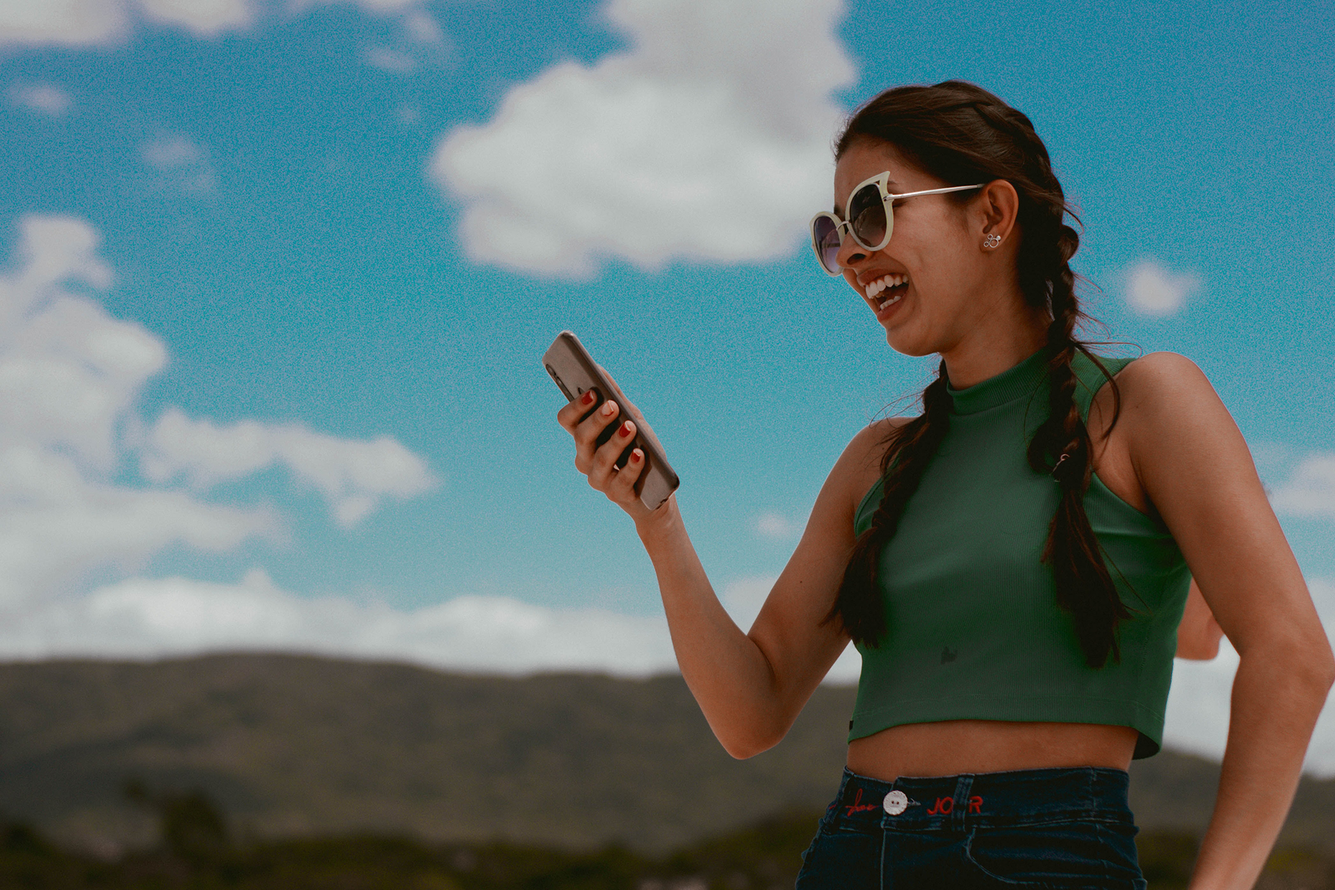
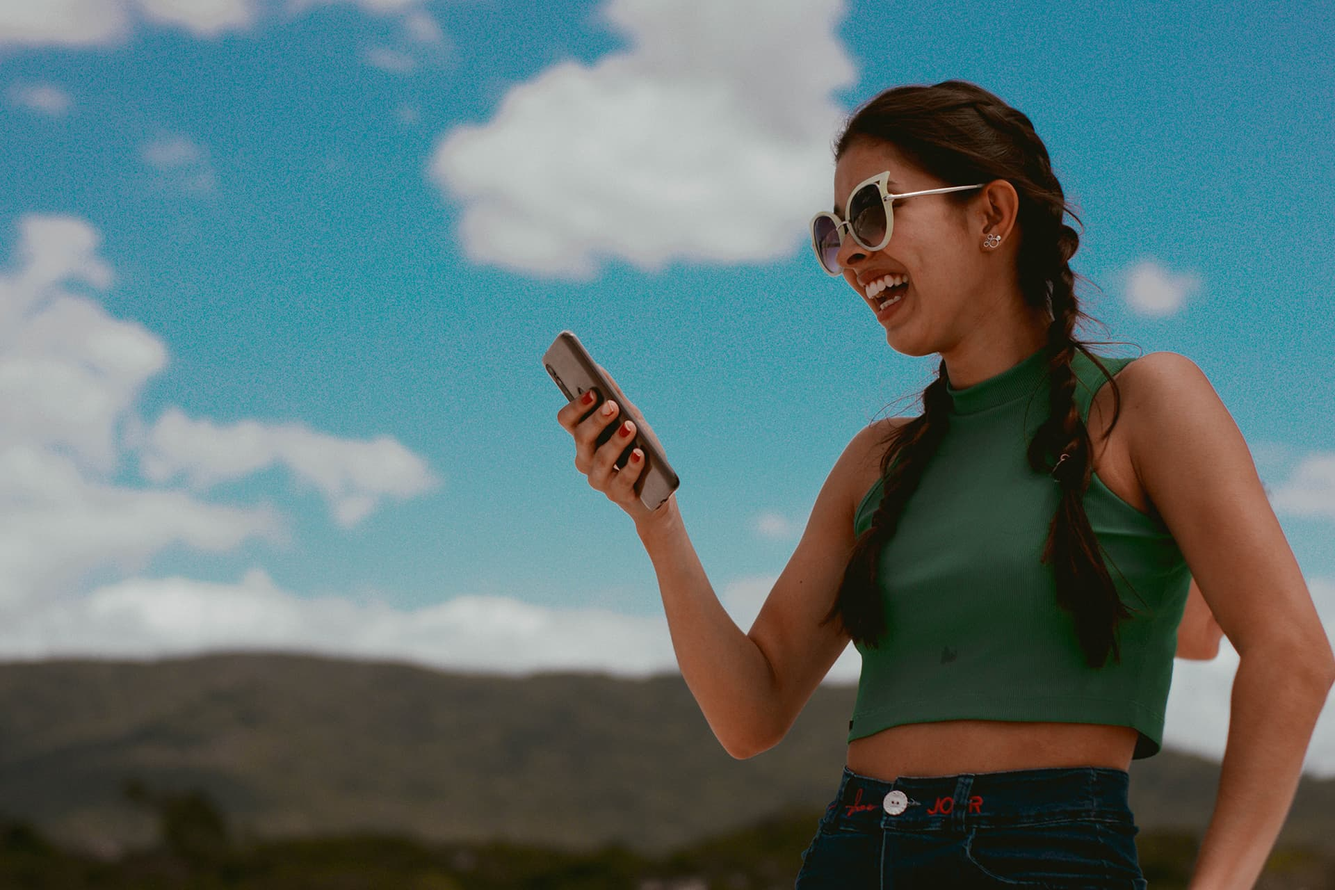
Publup maintance page.

Changed region(s): [[0.0, 0.0, 0.6875, 0.4375], [0.625, 0.0, 1.0, 0.4688]]

diff --git a/assets/css/style.css b/assets/css/style.css
@@ -77,12 +77,17 @@ h1, h2, h3, h4, h5, h6, .font-primary {
 @media (max-width: 768px) {
   #section {
     background: url("../img/mobile.jpg") left top;
+    background-repeat: no-repeat;
+    object-fit: cover;
+    background-size: cover;
   }
 }
 
 @media (min-width: 768px) {
   #section {
-    background: url("../img/desktop.jpg") center top;
+    background: url("../img/desktop.jpg") center center;
+    background-repeat: no-repeat;
+    background-size: cover;
   }
 }
 
